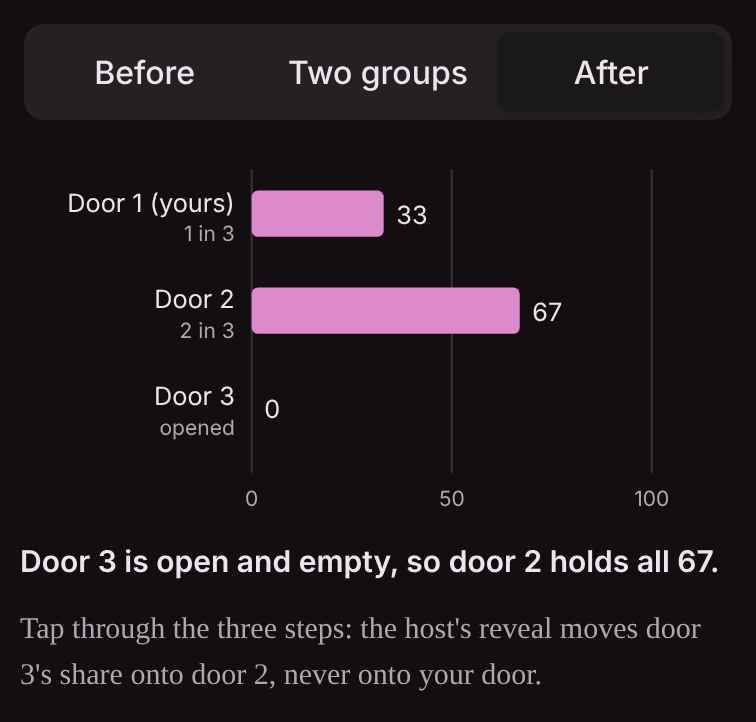
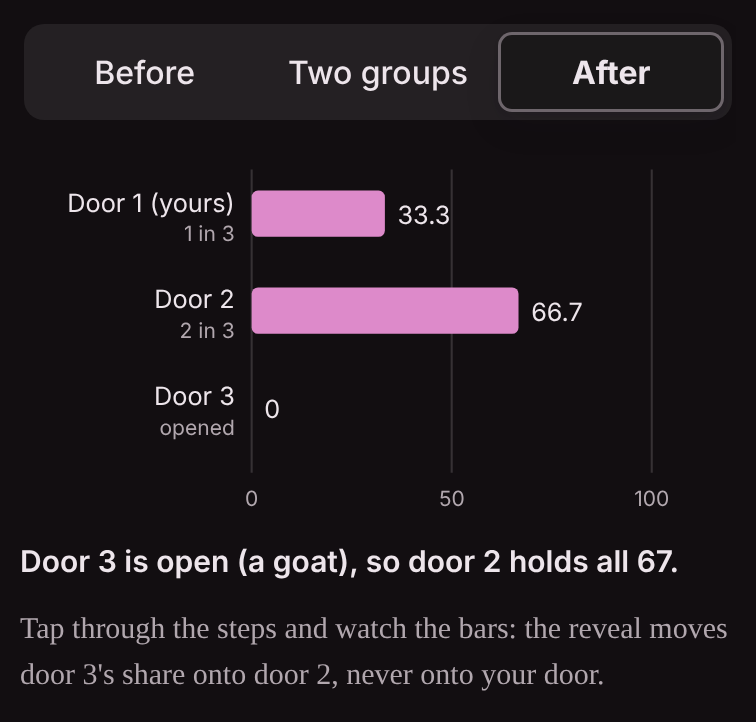
Phase F: 0.4.0: vision, README shots, evals, versions
- VISION 4.19-4.24: the picture ladder, one story with milestones, nothing gives the answer early,
  learners make the evidence, test then reveal, test with real users; 4.5 and section 6 updated
- README screenshots recaptured from the rebuilt lesson (chapter 3, one Check button)
- evals: 6 new functional cases (ask before animating, arc fields, no early answers, text budget,
  learners make the evidence, test with real users), 2 trigger cases
- plugin.json, SKILL.md and evals.json at 0.4.0; CI checks all three match
- SKILL.md: critical rules 12 and 13; the pressed step button is easy to see in both themes

Claude-Session: https://claude.ai/code/session_01T4BYTgpuvgqNWJGyycvN79

diff --git a/skills/building-interactive-lessons/assets/template.html b/skills/building-interactive-lessons/assets/template.html
@@ -132,7 +132,7 @@ textarea.code { min-height: 8em; resize: vertical; }
 /* Compare */
 .switch { display: flex; gap: 4px; padding: 4px; background: var(--surface-2); border-radius: 10px; overflow-x: auto; }
 .switch button { flex: 1; min-width: max-content; min-height: 40px; border: 0; background: transparent; padding: 8px 12px; border-radius: 7px; cursor: pointer; font-weight: 500; }
-.switch button[aria-pressed="true"] { background: var(--surface); box-shadow: var(--shadow); }
+.switch button[aria-pressed="true"] { background: var(--surface); box-shadow: var(--shadow), inset 0 0 0 1.5px var(--line-strong); font-weight: 700; }
 .compare-input { font-size: 0.875rem; color: var(--muted); }
 .steps { list-style: none; margin: 0; padding: 0; display: flex; flex-direction: column; counter-reset: step; }
 .steps li { counter-increment: step; display: grid; grid-template-columns: 28px 1fr; gap: 10px; padding: 10px 0; border-bottom: 1px solid var(--line); }

diff --git a/skills/building-interactive-lessons/SKILL.md b/skills/building-interactive-lessons/SKILL.md
@@ -1,11 +1,11 @@
 ---
 name: building-interactive-lessons
-description: Builds an interactive, AI-powered lesson as one web page on any subject (a concept, rules, a policy, a formula) or from docs or a code repo. Plans first (discover the learner, verify the material, plan chapters that build on each other), then fills a ready page template from the plan, with predictions, real code or text with recorded results, fill-in-the-blank exercises built on real mistakes, AI-graded explanations, an ask-the-tutor box, quizzes on key ideas and pitfalls, and diagrams only where they have a stated purpose. Also revises a lesson it built from feedback. Use for "teach me this", "make a lesson", "turn this repo into a tutorial", "learning artifact", "interactive tutorial", "course for this lab", "fix this chapter of the lesson". Not for reference docs, slide decks, or a quick explanation in chat.
+description: Builds an interactive, AI-powered lesson as one web page on any subject (a concept, rules, a policy, a formula) or from docs or a code repo. Plans first (discover the learner, verify the material, plan chapters that build on each other), then fills a ready page template from the plan, told as one story from a hook to a payoff, with predictions, pictures that step, move or let the learner play, real code or text with recorded results, fill-in-the-blank exercises built on real mistakes, AI-graded explanations, an ask-the-tutor box, quizzes on key ideas and pitfalls, and diagrams only where they have a stated purpose. Also revises a lesson it built from feedback. Use for "teach me this", "make a lesson", "turn this repo into a tutorial", "learning artifact", "interactive tutorial", "course for this lab", "fix this chapter of the lesson". Not for reference docs, slide decks, or a quick explanation in chat.
 license: MIT
 compatibility: Needs Python 3 with PyYAML (checker and build) and ruamel.yaml (recording outputs), node for JavaScript slices, and Playwright with Chromium or Chrome for phone screenshots. Best in claude.ai, where a published artifact can ask Claude (tutor and grader) and keep progress. Elsewhere it produces one HTML file with the AI features hidden.
 metadata:
   author: chayapol.par
-  version: 0.3.1
+  version: 0.4.0
 ---
 
 # Building interactive lessons
@@ -25,6 +25,8 @@ Turns a topic, docs or a repo into a lesson the learner works through: predict, 
 9. **Real material, small.** Any subject works: code, rules, formulas, concepts. A code slice is the real code that carries the idea, at most 15 code lines, with short line comments, and hidden `setup`; the tutor can show the code around it. A text exercise is the real sentence, rule or formula. No minimum length: never pad.
 10. **Test the idea, not the example.** Explain an example (a lab, a codebase, a rule book) before using it, and never ask the learner to recall its details, such as a clause number. A quiz must be answerable by someone who learned the idea but has never seen the example.
 11. **The page comes from the template.** `scripts/build_page.py` fills `assets/template.html` with the blueprint. Never hand-write or hand-edit the page; change the blueprint and rebuild.
+12. **One story, and nothing gives the answer early.** A big idea, chapters in beats from hook to payoff, each ending on an open question the next one answers. No answer shows before its guess, a "Spot the mistake" question comes before its card, and words stay inside the text budget (`references/chapter-design.md` sections 0 and 8).
+13. **The lowest picture that carries the idea.** Stepped by default for a change; animation or play only for a named moment, after a yes in Discover (`references/diagrams.md` section 0).
 
 ## When to run or offer it (mode: suggest first)
 

diff --git a/docs/drafts/README-draft.md b/docs/drafts/README-draft.md
@@ -102,7 +102,7 @@ It worked if the check prints `0 errors, 0 warnings`. Open `/tmp/lesson/lesson.h
 | `scripts/theme.py` | Builds both themes' colours from one accent and checks their contrast |
 | `scripts/screenshot_chapters.py` | Phone screenshots of the changed chapters, light and dark |
 | `assets/template.html` | The lesson page: blanks, hints, solutions, read-along, pictures, tutor, grader, progress |
-| `assets/` examples | 3 blueprints that pass every check: Stay or Switch? (3 chapters, no code), text chunking (code) and How LLMs Work (6 chapters) |
+| `assets/` examples | 3 blueprints that pass every check: Stay or Switch? (5 chapters, no code, told as one story), text chunking (code) and How LLMs Work (6 chapters) |
 | `references/` | 6 guides: blueprint format, chapter design, quizzes, diagrams, tutor and grader, page behaviour |
 
 ## What the checks catch

diff --git a/CHANGELOG.md b/CHANGELOG.md
@@ -1,6 +1,6 @@
 # Changelog
 
-## 0.4.0 · unreleased
+## 0.4.0 · 6 Nov 2026
 - One Check button on fill-the-blanks: the verdict and where each pick leads, together.
 - Stepped pictures keep their tallest step's height, so the page never jumps.
 - Test, then reveal: a "Spot the mistake" question comes before its common-mistake card, which opens once it is answered (the checker's order rule is flipped).
